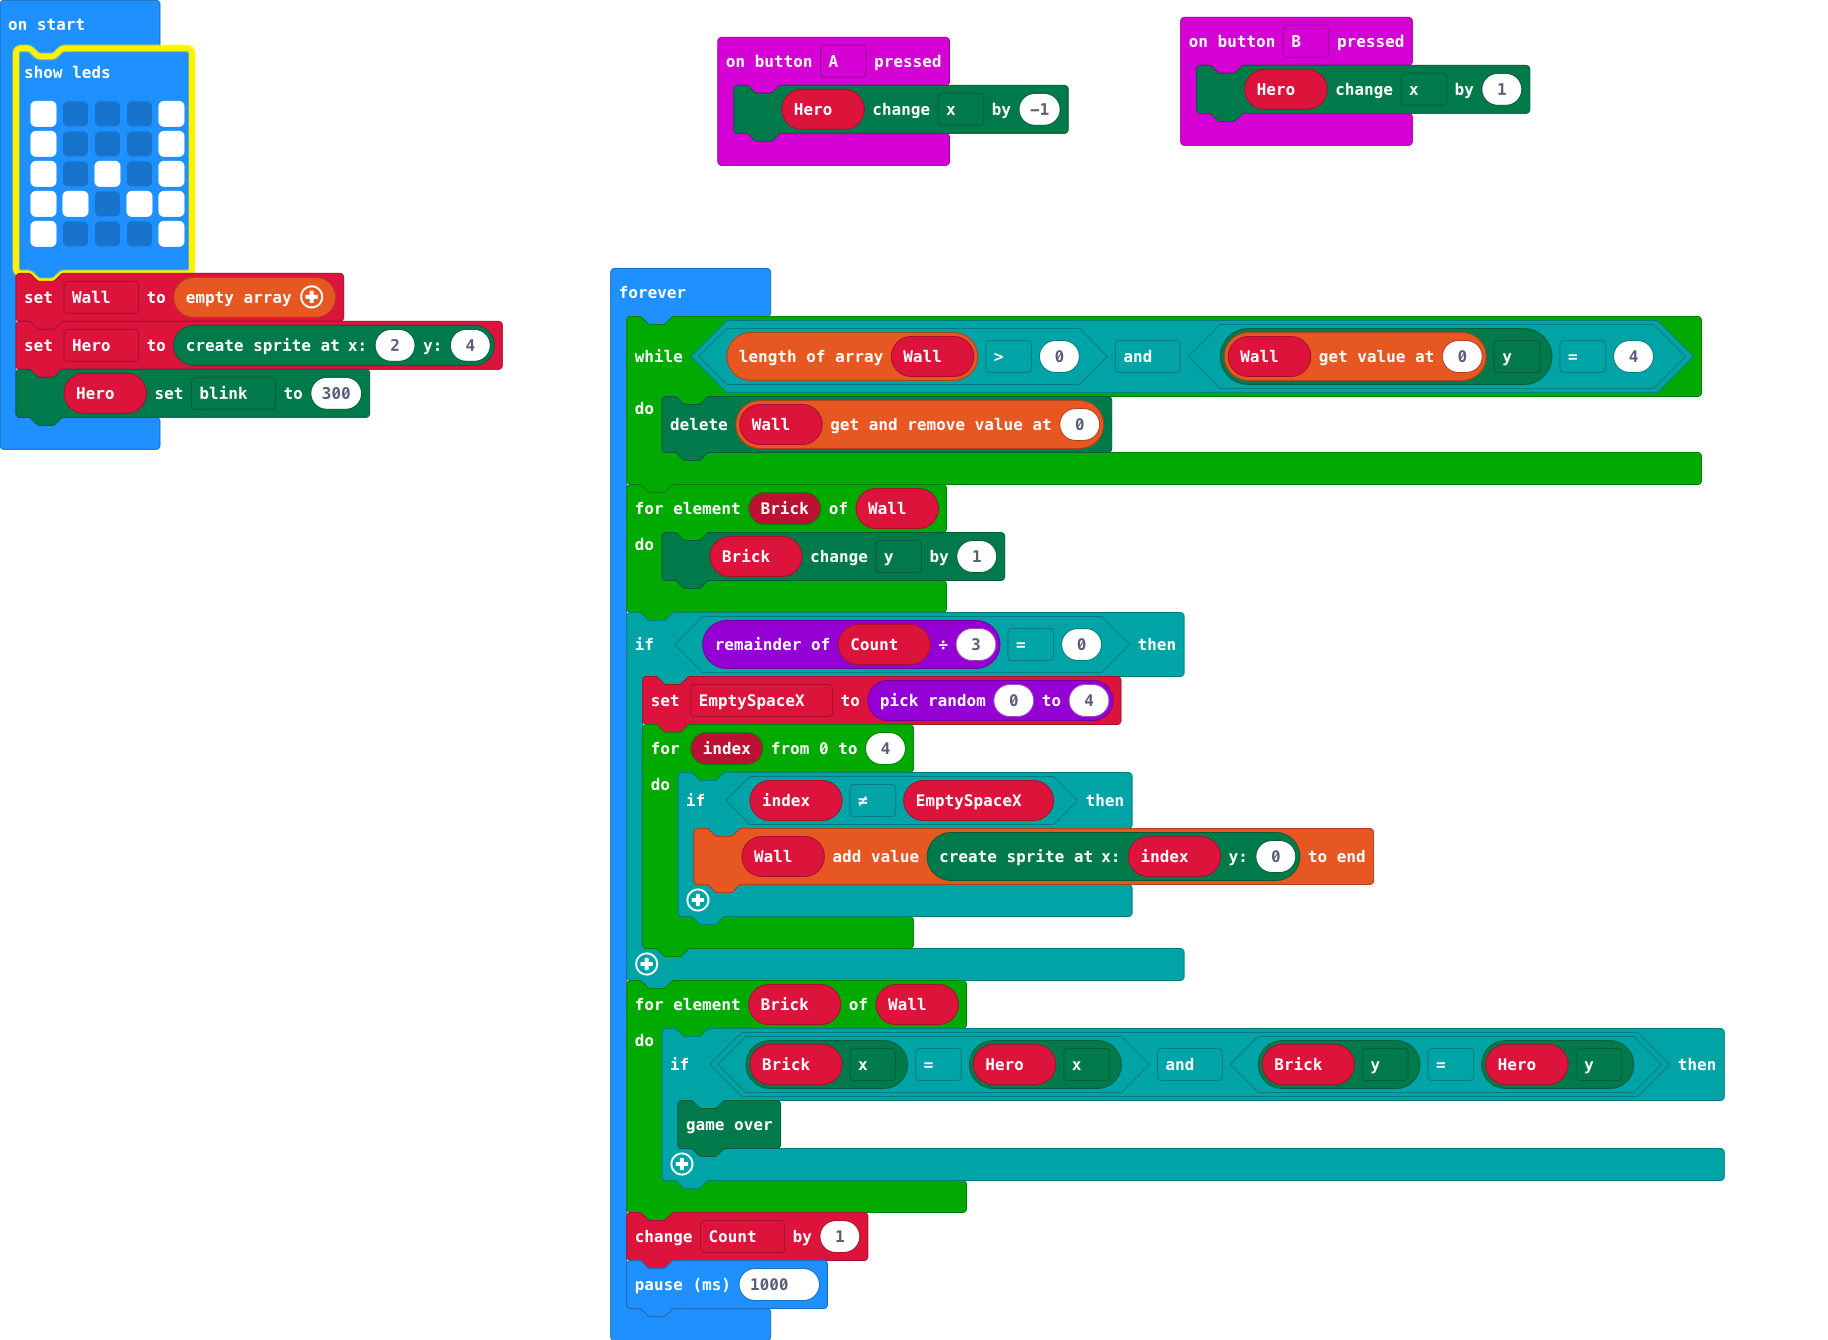
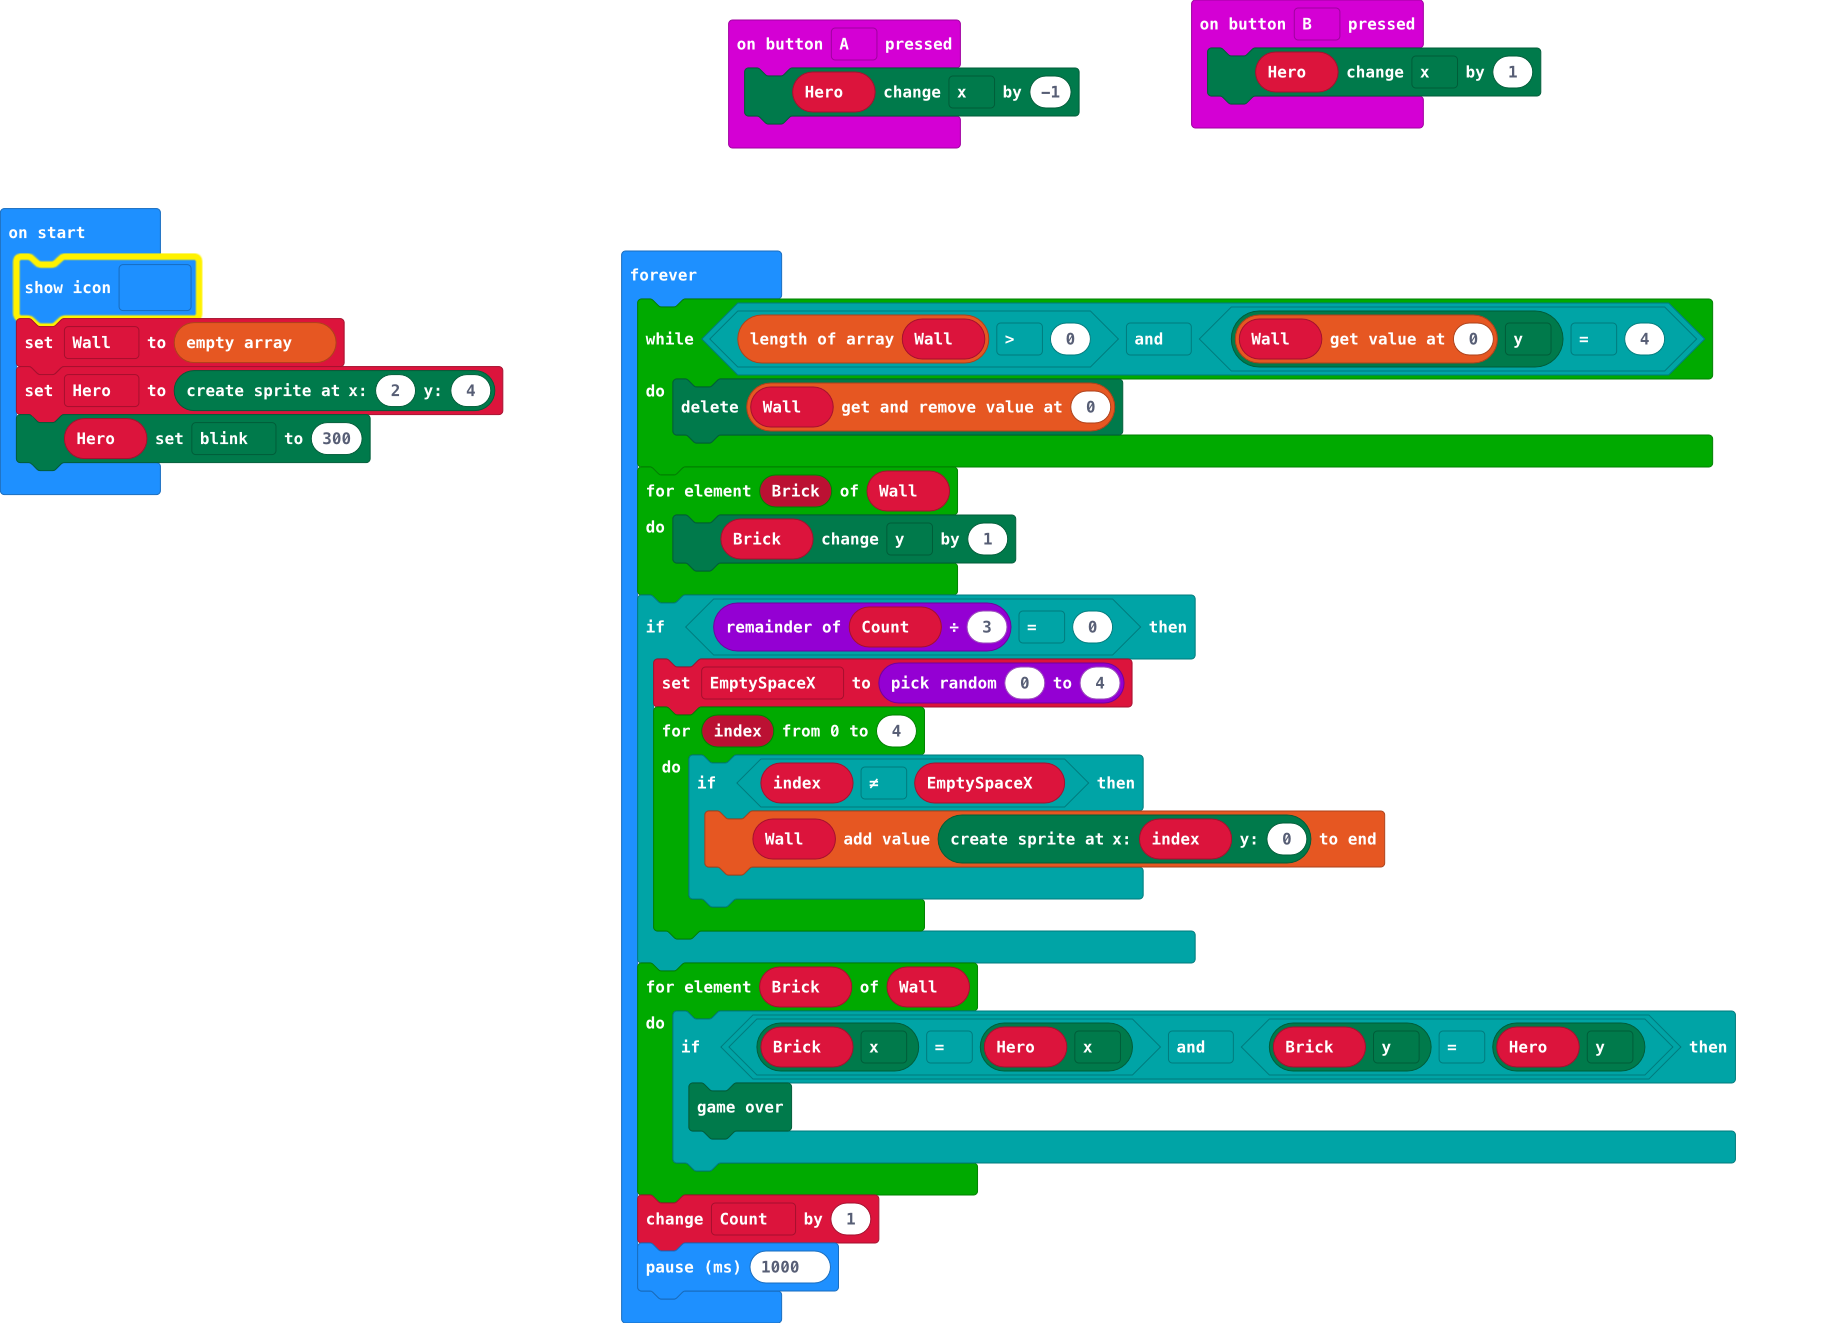
heart

diff --git a/main.ts b/main.ts
@@ -7,13 +7,7 @@ input.onButtonPressed(Button.B, function () {
 let EmptySpaceX = 0
 let Count = 0
 let Hero: game.LedSprite = null
-basic.showLeds(`
-    # . . . #
-    # . . . #
-    # . # . #
-    # # . # #
-    # . . . #
-    `)
+basic.showIcon(IconNames.Heart)
 let Wall: game.LedSprite[] = []
 Hero = game.createSprite(2, 4)
 Hero.set(LedSpriteProperty.Blink, 300)
